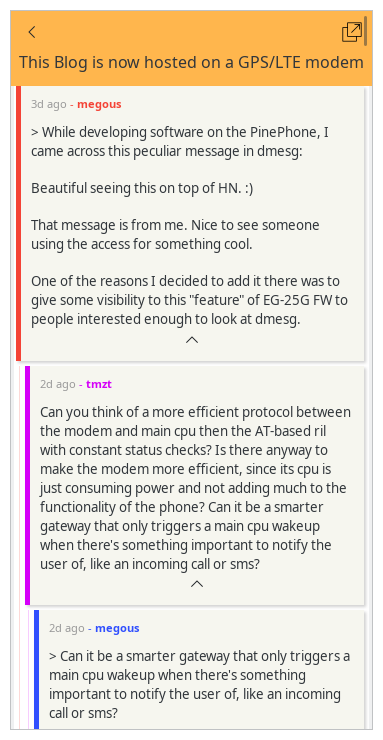
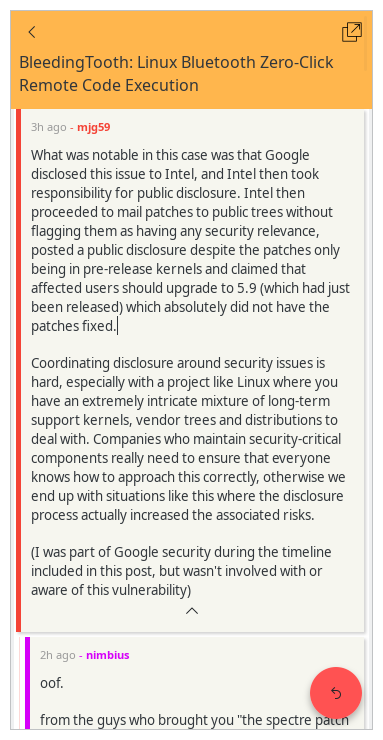
add useless reply button

Changed region(s): [[0.0287, 0.0622, 0.9765, 0.9946], [0.9478, 0.0311, 0.9765, 0.0622]]

diff --git a/src/hn/css/style.css b/src/hn/css/style.css
@@ -93,3 +93,15 @@
 .rotate {
 	-gtk-icon-transform: rotate(0.5turn);
 }
+
+.thread-reply-action label {
+	color: white;
+}
+.thread-reply-action {
+	margin-bottom: 10px;
+	margin-right: 10px;
+	border-radius: 50px;
+	background-color: #ff5252;
+	box-shadow: 0px 4px 4px rgba(0,0,0, 0.3);
+	padding: 18px;
+}
